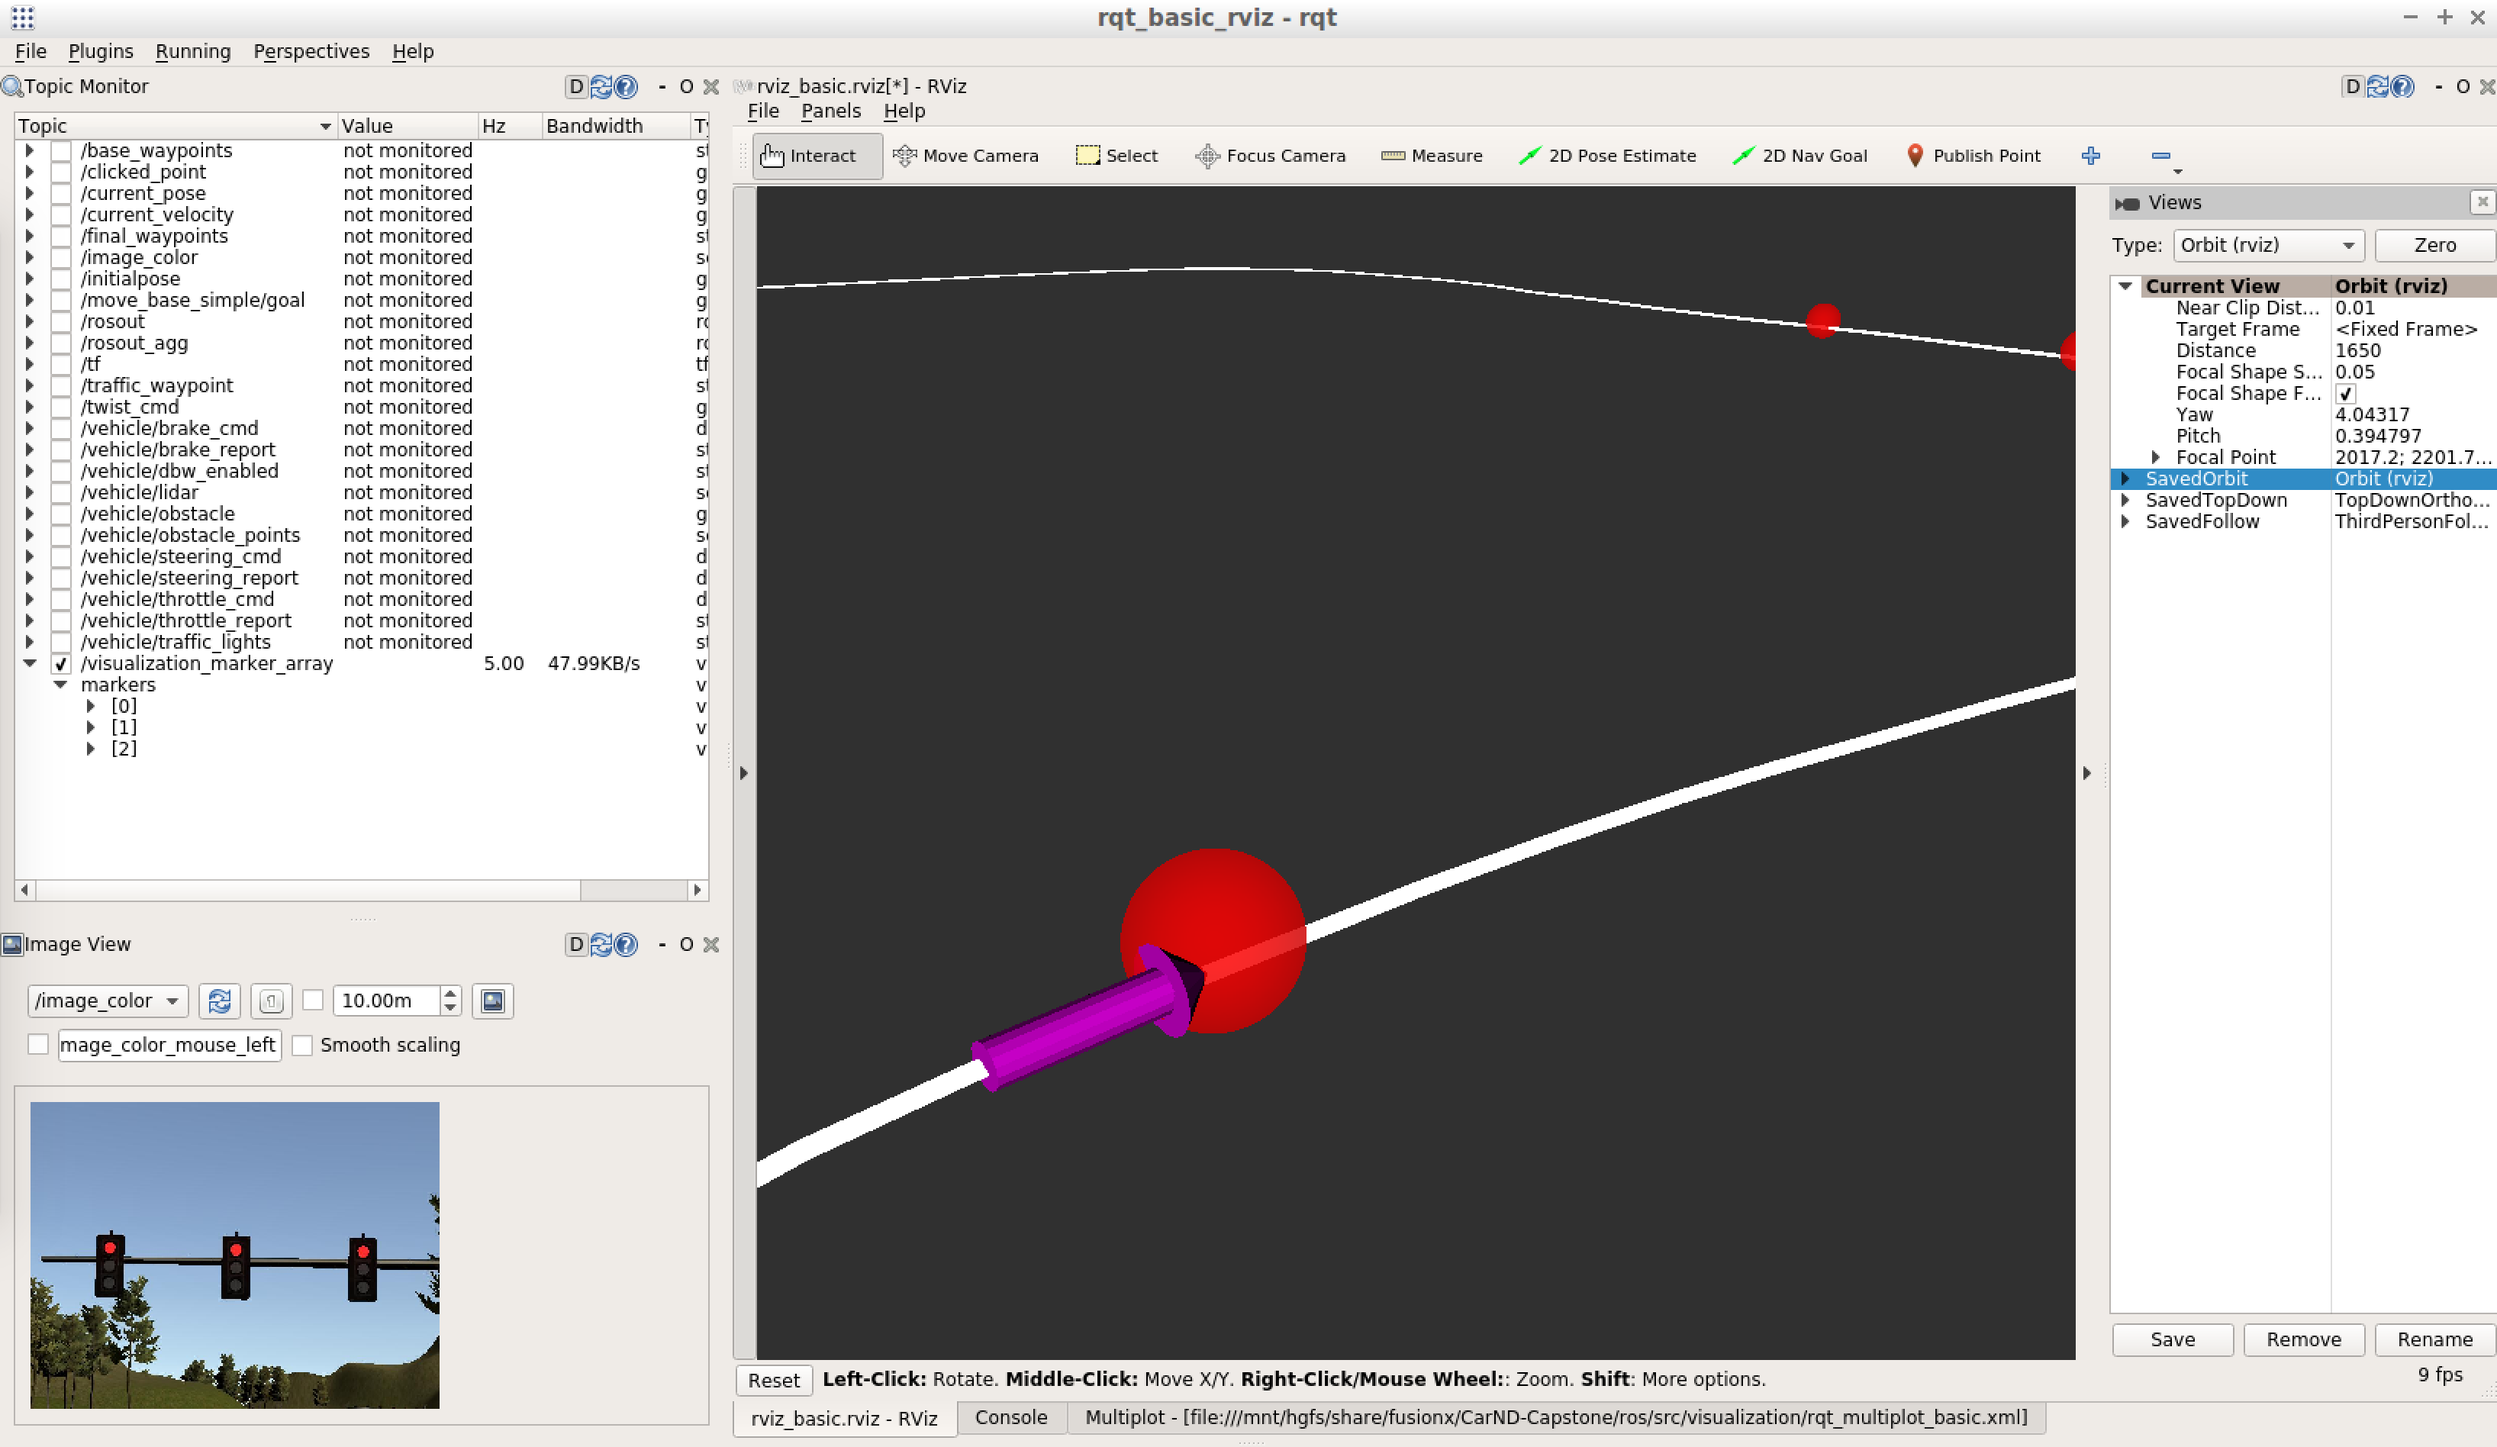
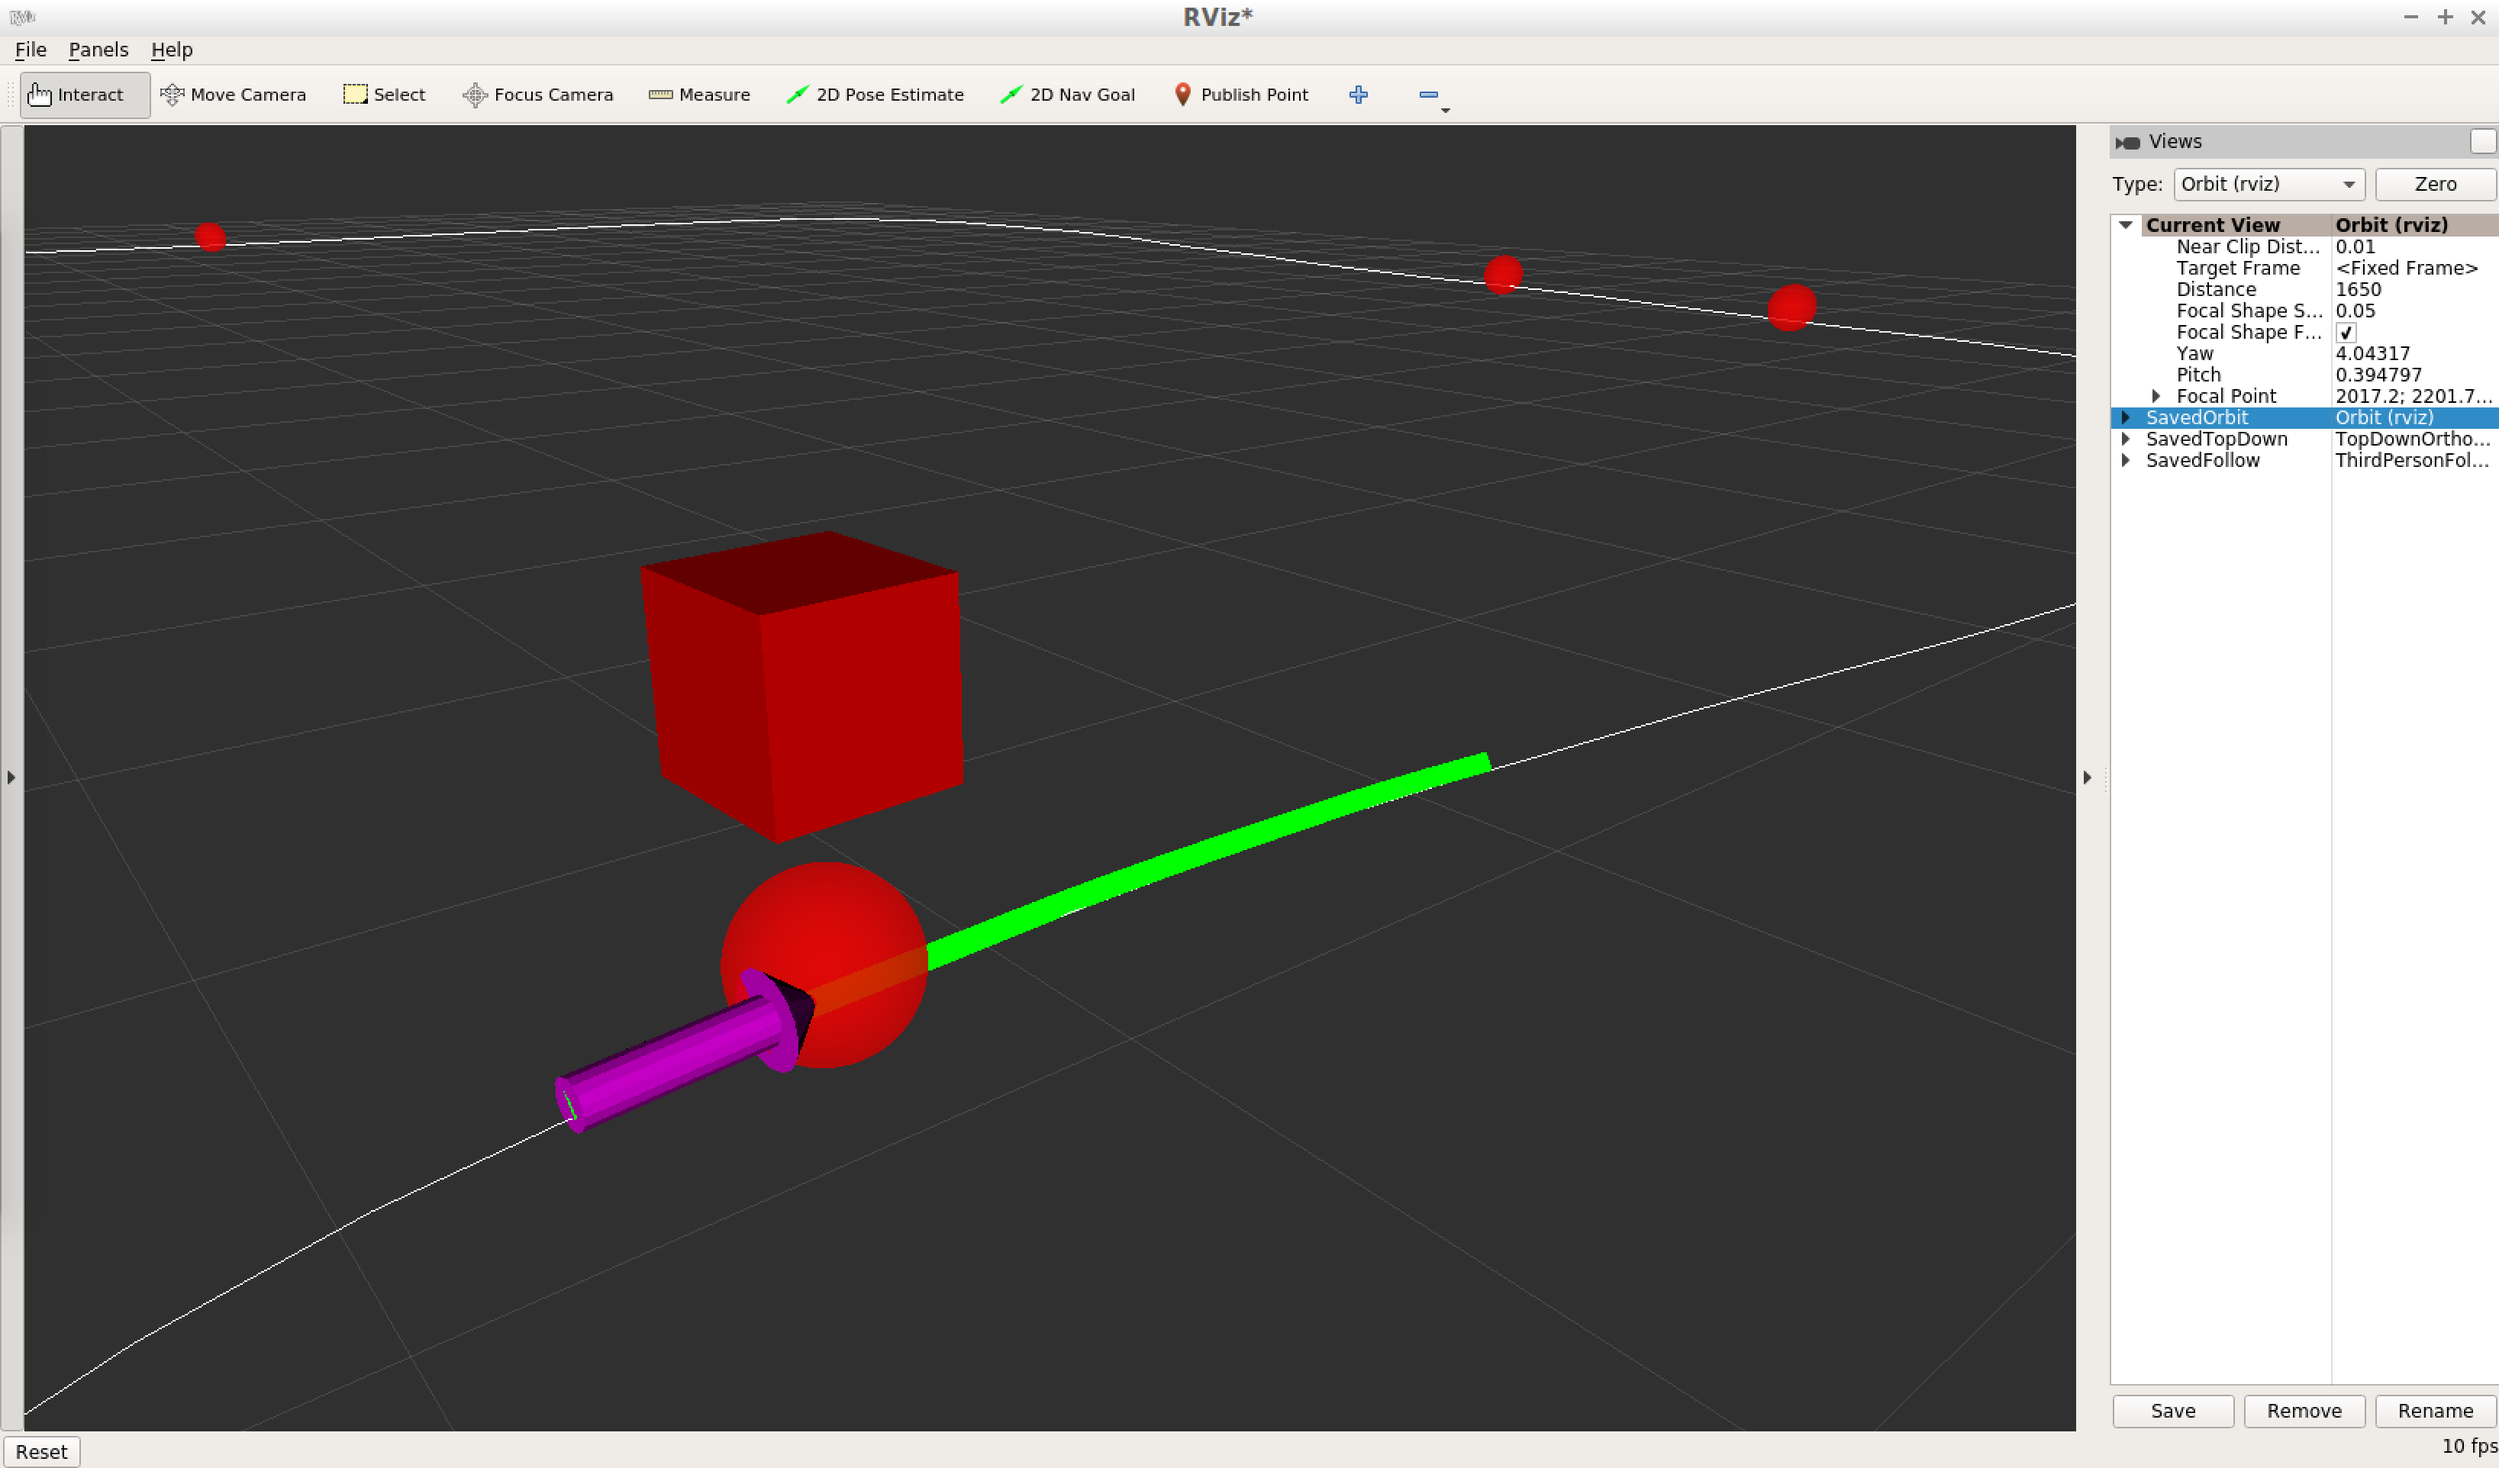
Update README and apply deepcopy for vis_node

diff --git a/ros/src/visualization/vis_node.py b/ros/src/visualization/vis_node.py
@@ -173,10 +173,12 @@ class VisNode(object):
                 final_wp_line.color.r = 0.0
                 final_wp_line.color.g = 1.0
                 final_wp_line.color.b = 0.0
-                for wp_idx in range(len(self.final_waypoints)):
+                # Make local copy for looping to prevent interrupt by callback
+                final_waypoints = deepcopy(self.final_waypoints)
+                for wp_idx in range(len(final_waypoints)):
                     if wp_idx % 10 == 0:  # thin out points
                         final_wp_line.points.append(
-                            self.final_waypoints[wp_idx].pose.pose.position)
+                                    final_waypoints[wp_idx].pose.pose.position)
                 marker_array.markers.append(final_wp_line)
 
                 # Traffic Waypoint Spheres
@@ -189,11 +191,13 @@ class VisNode(object):
                 tl_marker.scale.x = 30.0
                 tl_marker.scale.y = 30.0
                 tl_marker.scale.z = 30.0
-                for tl_idx in range(len(self.traffic_lights)):
+                # Make local copy for looping to prevent interrupt by callback
+                traffic_lights = deepcopy(self.traffic_lights)
+                for tl_idx in range(len(traffic_lights)):
                     tl_marker.points.append(
-                                self.traffic_lights[tl_idx].pose.pose.position)
+                                traffic_lights[tl_idx].pose.pose.position)
                     tl_color = self.set_traffic_light_color(
-                                        self.traffic_lights[tl_idx].state, 0.6)
+                                        traffic_lights[tl_idx].state, 0.6)
                     tl_marker.colors.append(tl_color)
                 marker_array.markers.append(tl_marker)
 
@@ -215,6 +219,7 @@ class VisNode(object):
                     det_tl_marker.color.g = 0.0
                     det_tl_marker.color.b = 0.0
                     tl_idx = self.traffic_waypoint
+                    # Make local copy to modify z position
                     tl_pose = deepcopy(self.base_waypoints[tl_idx].pose.pose)
                     tl_pose.position.z += 50  # offset the marker above waypnts
                     det_tl_marker.pose = tl_pose

diff --git a/README.md b/README.md
@@ -42,25 +42,21 @@ This project includes some visualization tools for monitoring data while running
 #### RViz (3D scene view)
 
 * **Setup:**
-    To visualize the car's position relative to the waypoints and traffic lights in an RViz 3D scene, a **visualization node** is used to publish a **/visualization_marker_array** topic to populate the objects.
+    To visualize the car's position relative to the waypoints and traffic lights in an RViz 3D scene, a **visualization node** is used to publish a **/visualization_marker_array** topic to populate the objects and a **/visualization_basewp_path** topic to populate a path line.
 
     The visualization node publishes when the parameter *vis_enabled == True*, set by default in the **styx.launch** file.  When using **site.launch** in the actual vehicle, the visualization node is not launched to reduce bandwidth.
 
     RViz is included in the ROS desktop install, so no additional setup is needed.
 
 * **Operation:**
-    RViz can be run either as a stand-alone program or as a plug-in within RQT.  To use it as a stand-alone program, after roslaunching the styx program and connecting to the simulator, start another shell in the /ros/ folder and run:
+    RViz can be run either as a stand-alone program or as a plug-in within RQT, but there is a bug in the RQT plug-in that causes a crash when rendering the base waypoint path so **RViz should be run as stand-alone**.  To use it as a stand-alone program, after roslaunching the styx program and connecting to the simulator, start another shell in the /ros/ folder and run:
 
     ```
     source devel/setup.bash
     rviz
     ```
 
-    A basic RViz layout can by loaded by going to the RViz menu *File > Open Config* and select the **rviz_basic.rviz** file.
-
-    To use it as an RQT plug-in, after roslaunching the styx program and connecting to the simulator, start RQT and import/switch to the Basic Rviz perspective (**rqt_basic_rviz.perspective** file).  Confirm communication by enabling the **/visualization_marker_array** topic in the Topic Monitor and checking for markers in the array.
-
-    In the RViz panel, the view can be switched between saved view settings in the *Views* list on the right side.  The mouse wheel and left/middle buttons can be used to move/zoom the camera.
+    A basic RViz layout can by loaded by going to the RViz menu *File > Open Config* and select the **rviz_basic.rviz** file.  In the RViz layout, the view can be switched between saved view settings in the *Views* list on the right side.  The mouse wheel and left/middle buttons can be used to move/zoom the camera.
 
     [<img src="./imgs/screen_rviz_basic.png" width="800">](./imgs/screen_rviz_basic.png)
 
